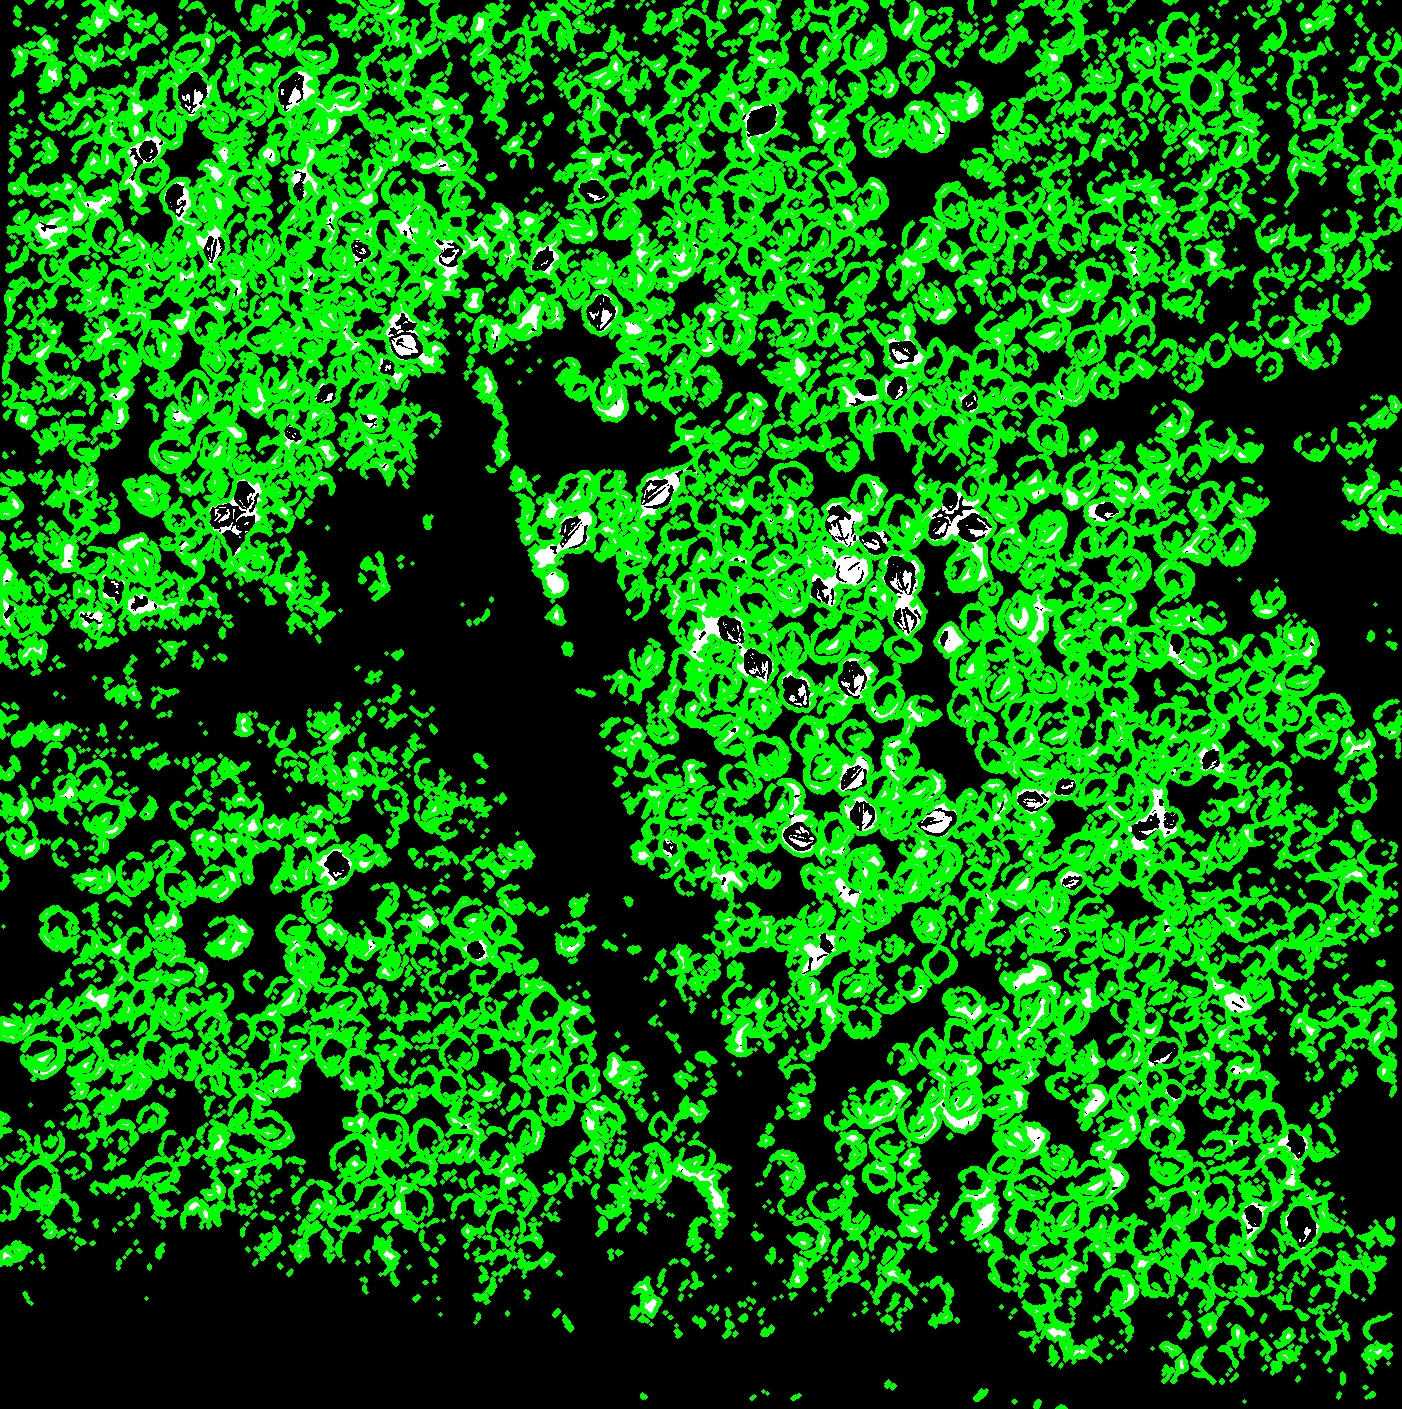
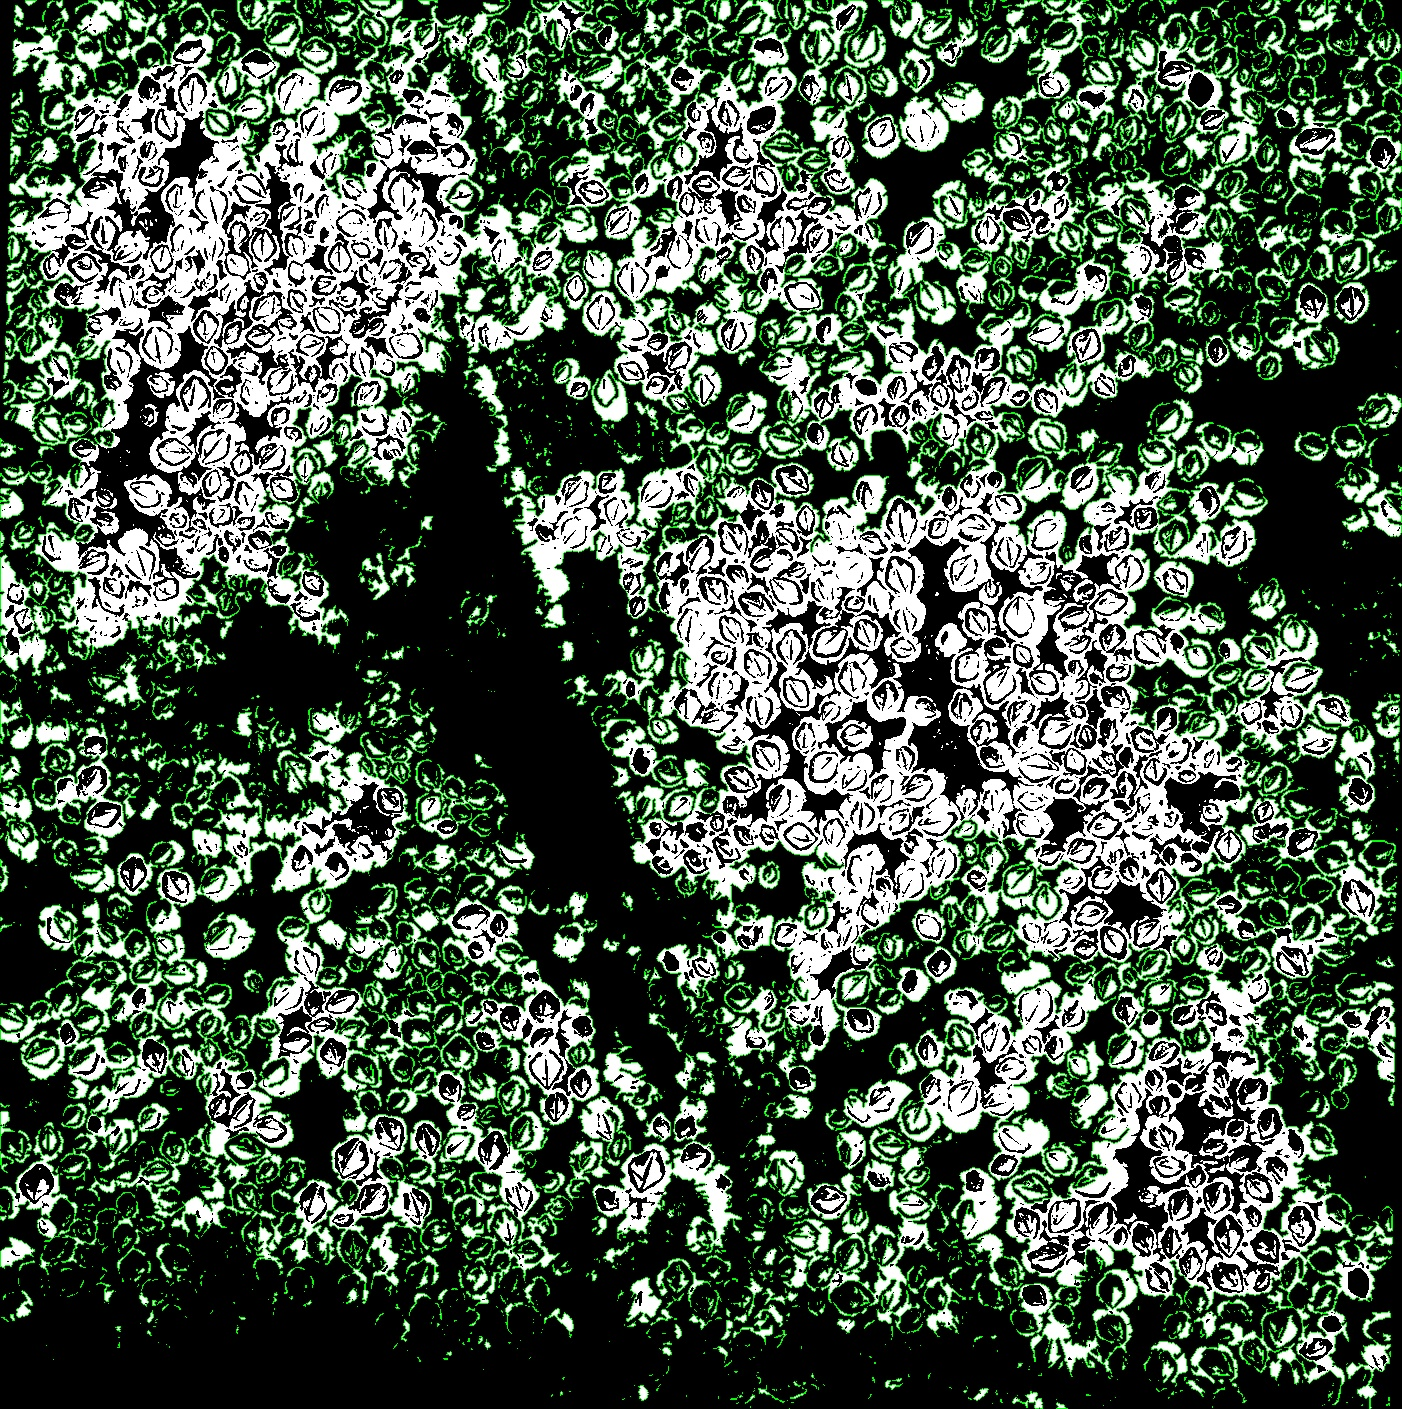
attempt 2: adaptive thresholding

diff --git a/src/data_challenge/helpers.py b/src/data_challenge/helpers.py
@@ -8,20 +8,35 @@ import os
 if __name__ == "__main__":
     img = cv.imread("./images/img1cropped.png")
     img_gray = cv.cvtColor(img, cv.COLOR_BGR2GRAY)
-    ret, thresh = cv.threshold(img_gray, 150, 255, cv.THRESH_BINARY)
+    ret, thresh = cv.threshold(img_gray, 122, 255, cv.THRESH_BINARY)
     cv.imshow('greyed image', thresh)
     cv.waitKey(0)
     cv.imwrite('img_greyed.jpg', thresh)
     cv.destroyAllWindows()
-
+    
     contours, hierarchy = cv.findContours(image=thresh, mode=cv.RETR_EXTERNAL, method=cv.CHAIN_APPROX_SIMPLE)
     thresh_color = cv.cvtColor(thresh, cv.COLOR_GRAY2BGR)
-    cv.drawContours(thresh_color, contours, -1, (0, 255, 0), 3)
+    cv.drawContours(thresh_color, contours, -1, (0, 255, 0), 1)
     cv.imshow('img_contoured', thresh_color)
     cv.waitKey(0)
     cv.imwrite('img_countoured.jpg', thresh_color)
     cv.destroyAllWindows()
-    print("number of barnacles:", len(contours))
+    print("barnacles detected:", len(contours))
+    
+    adaptiveThresh = cv.adaptiveThreshold(img_gray, 255, cv.ADAPTIVE_THRESH_MEAN_C, cv.THRESH_BINARY_INV, 33, 3)
+    cv.imshow('adaptive threshold', adaptiveThresh)
+    cv.waitKey(0)
+    cv.imwrite('adaptive_threshold.jpg', adaptiveThresh)
+    cv.destroyAllWindows()
+
+    contours, hierarchy = cv.findContours(image=adaptiveThresh, mode=cv.RETR_EXTERNAL, method=cv.CHAIN_APPROX_SIMPLE)
+    aThresh_color = cv.cvtColor(adaptiveThresh, cv.COLOR_GRAY2BGR)
+    cv.drawContours(aThresh_color, contours, -1, (0, 255, 0), 1)
+    cv.imshow('img_AT_contoured', aThresh_color)
+    cv.waitKey(0)
+    cv.imwrite('img_AT_countoured.jpg', aThresh_color)
+    cv.destroyAllWindows()
+    print("barnacles detected:", len(contours))
 
 
     mask = cv.imread("./images/mask1.png")
